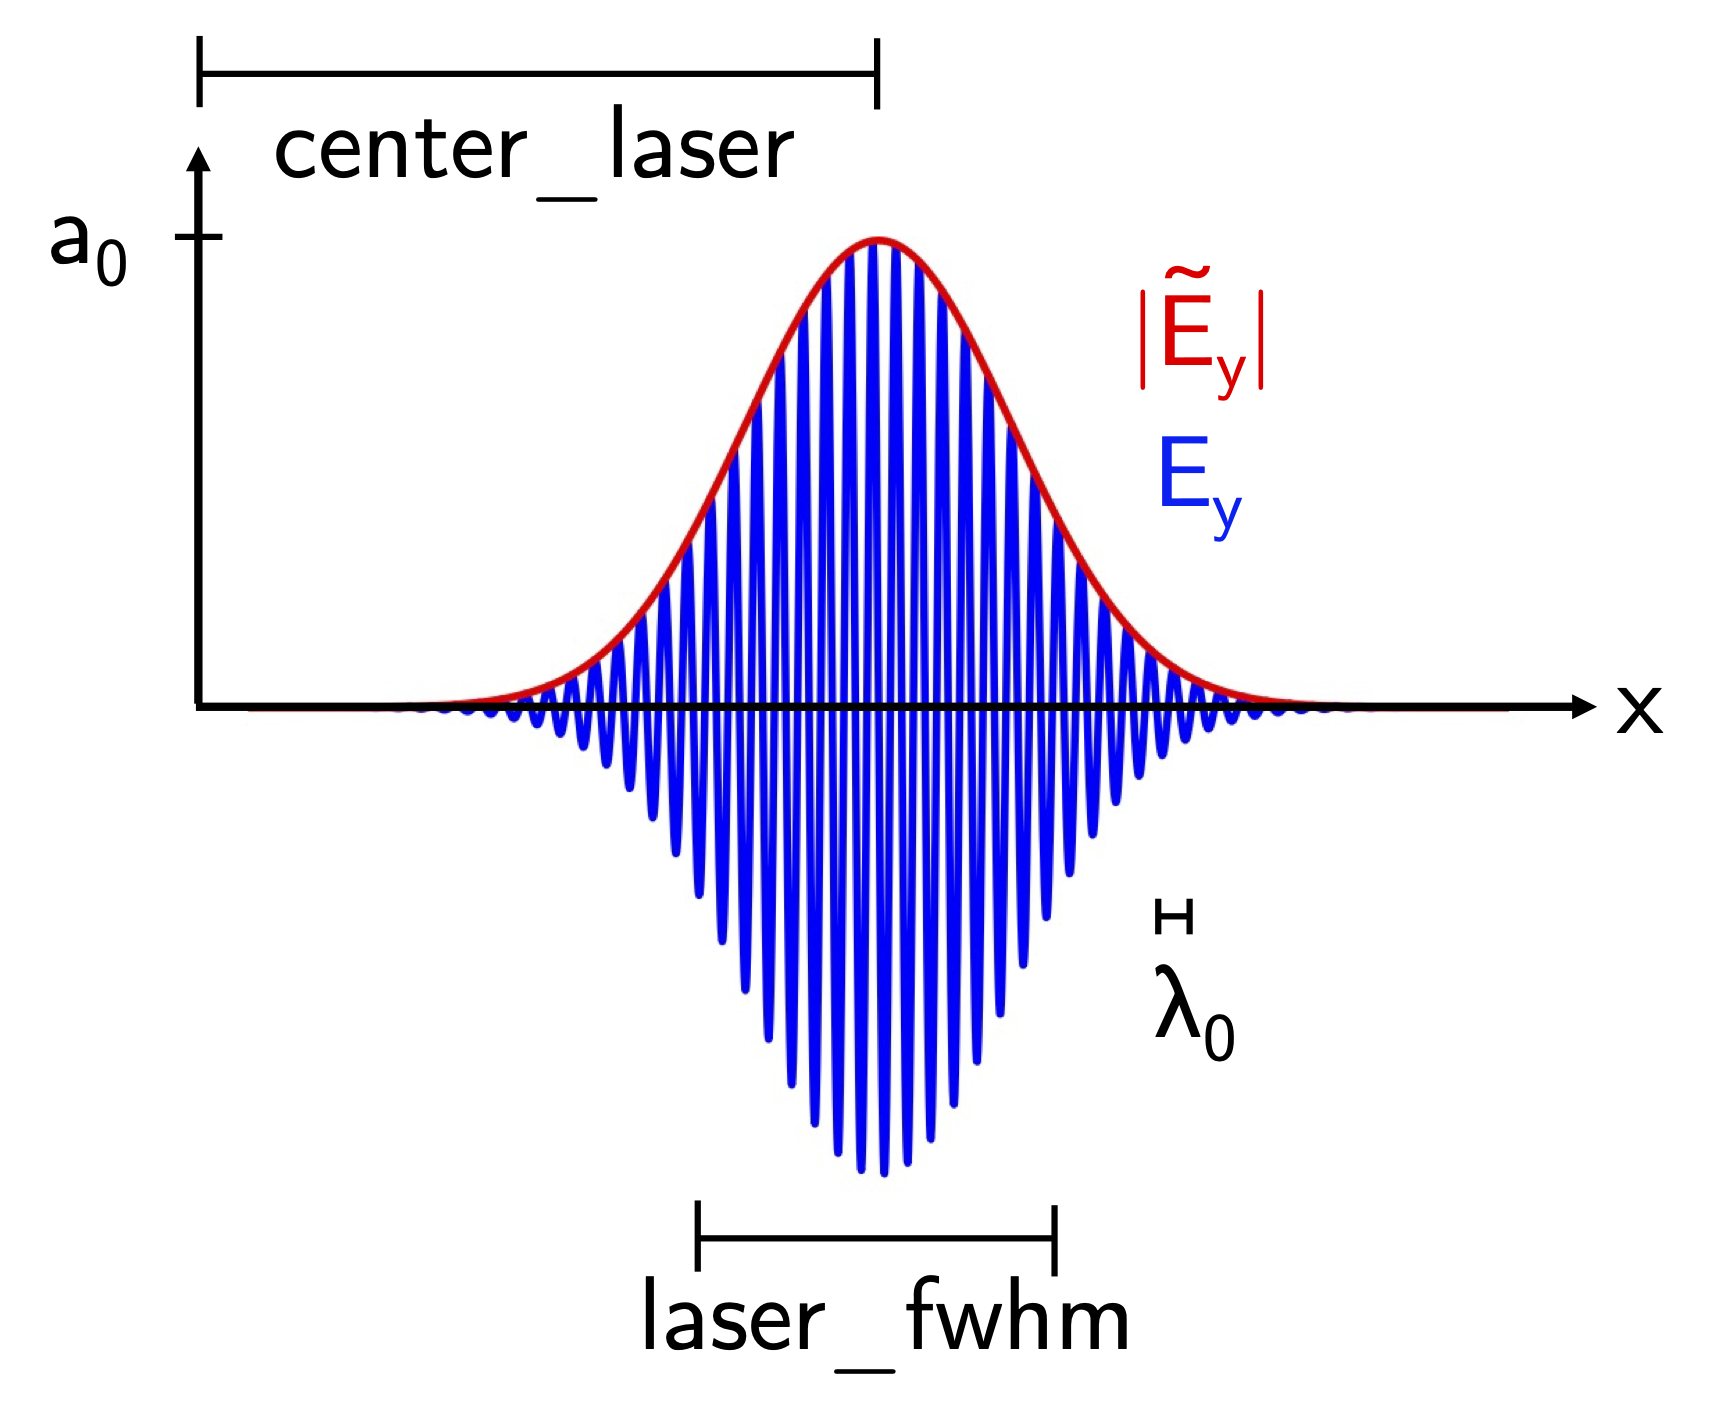
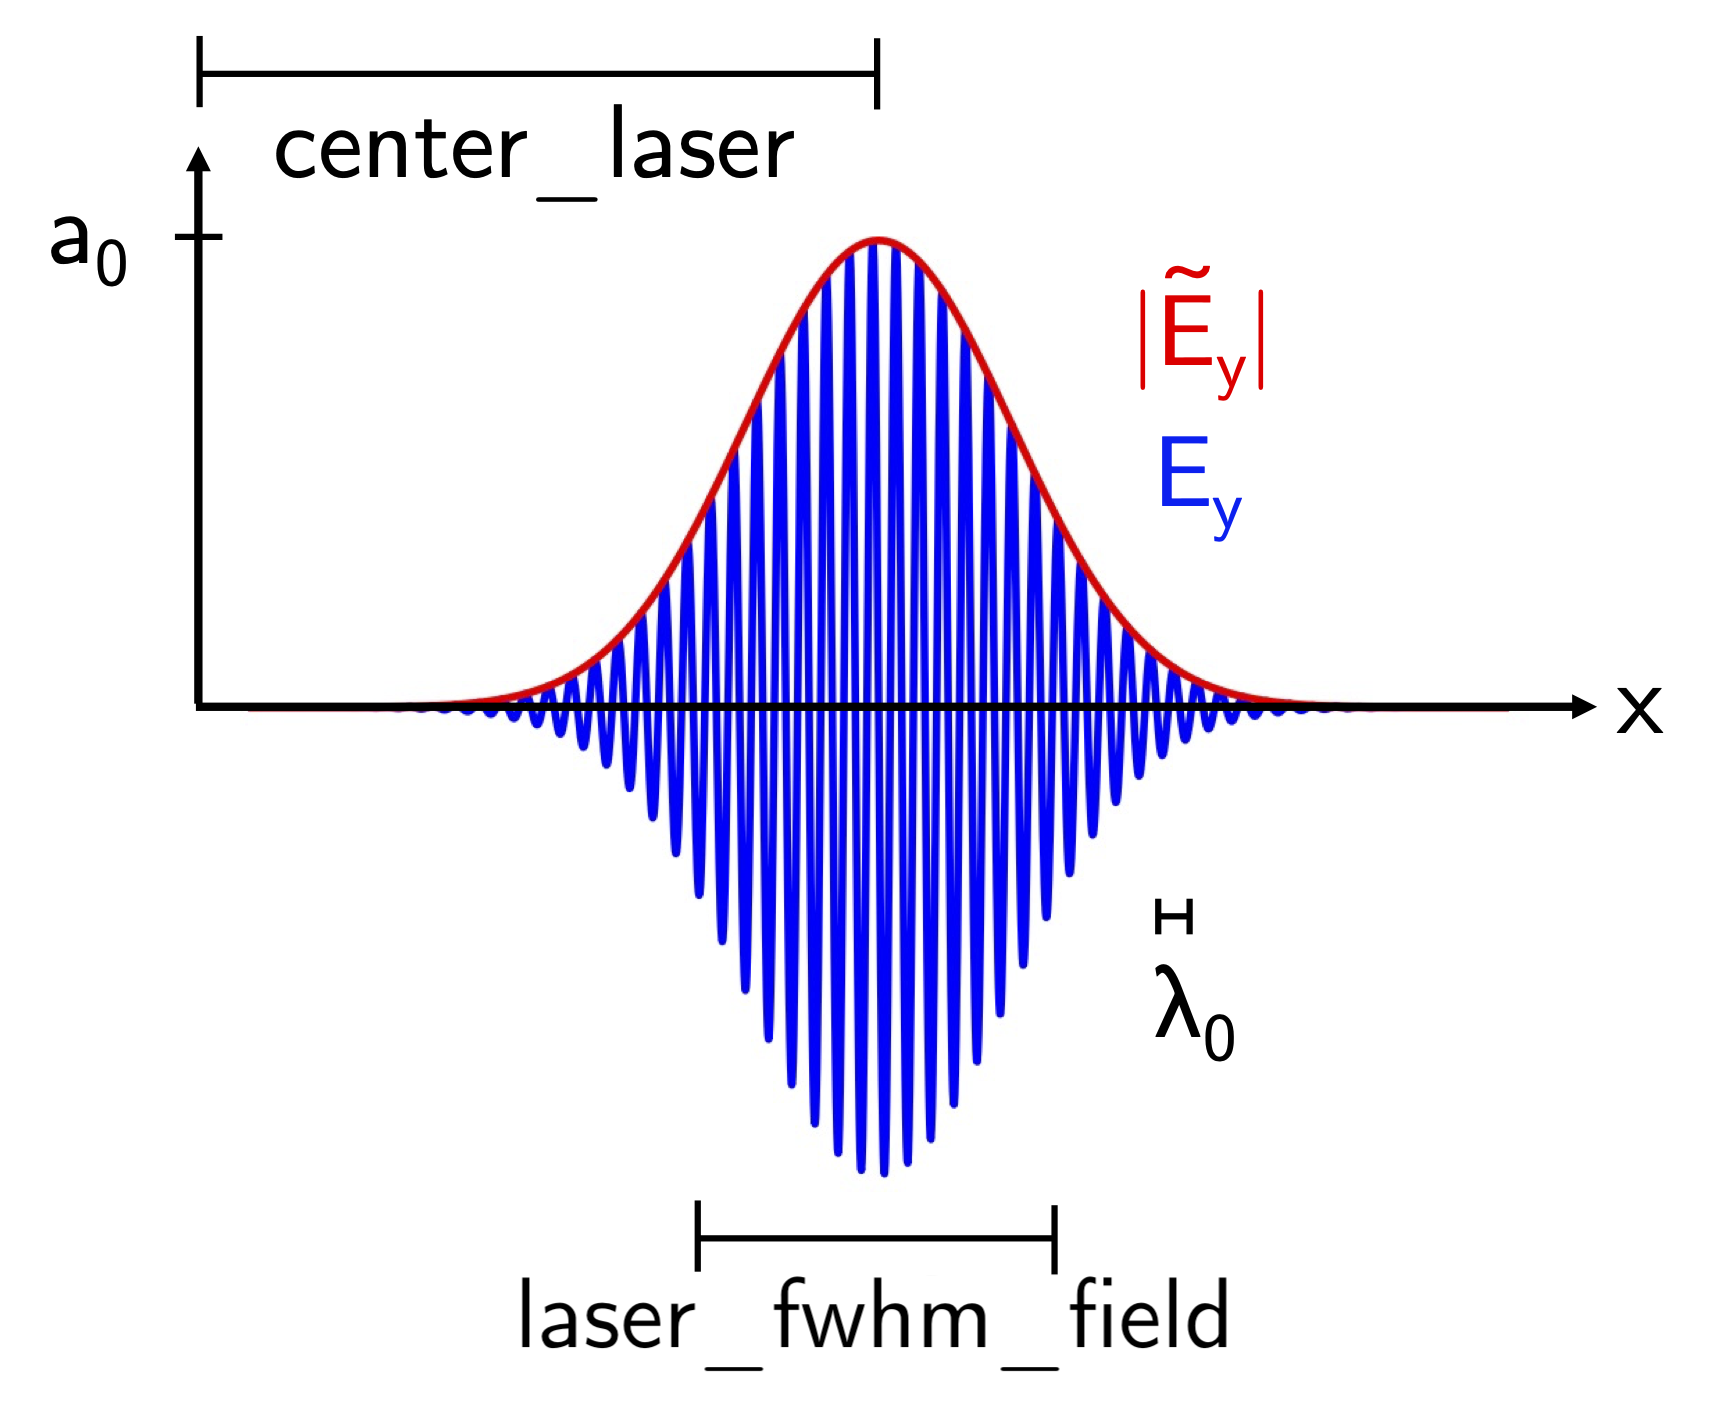
corrections to namelist and laser figure

Changed region(s): [[0.2812, 0.9175, 0.7188, 0.9787]]

diff --git a/InputNamelist.py b/InputNamelist.py
@@ -86,7 +86,7 @@ Main(
 ### laser parameters
 #laser_fwhm_field    = 25.5*math.sqrt(2)*fs                                      # laser FWHM duration in field, i.e. FWHM duration in intensity*sqrt(2)
 #laser_waist         = 12*um                                                     # laser waist, conversion from um
-#x_center_laser      = Lx-1.7*laser_fwhm_field                                   # laser position at the start of the simulation
+#x_center_laser      = Lx-1.7*c_normalized*laser_fwhm_field                      # laser position at the start of the simulation
 #x_focus_laser       = (x_center_laser+0.1*laser_fwhm_field)                     # laser focal plane position
 #a0                  = 2.3                                                       # laser peak field, normalized by E0 defined above
 
